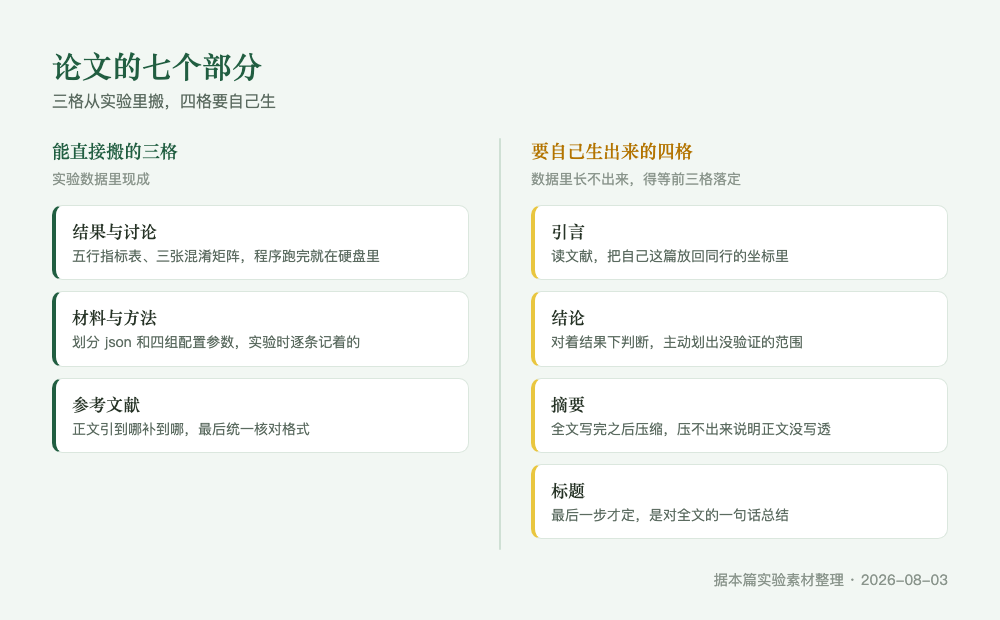
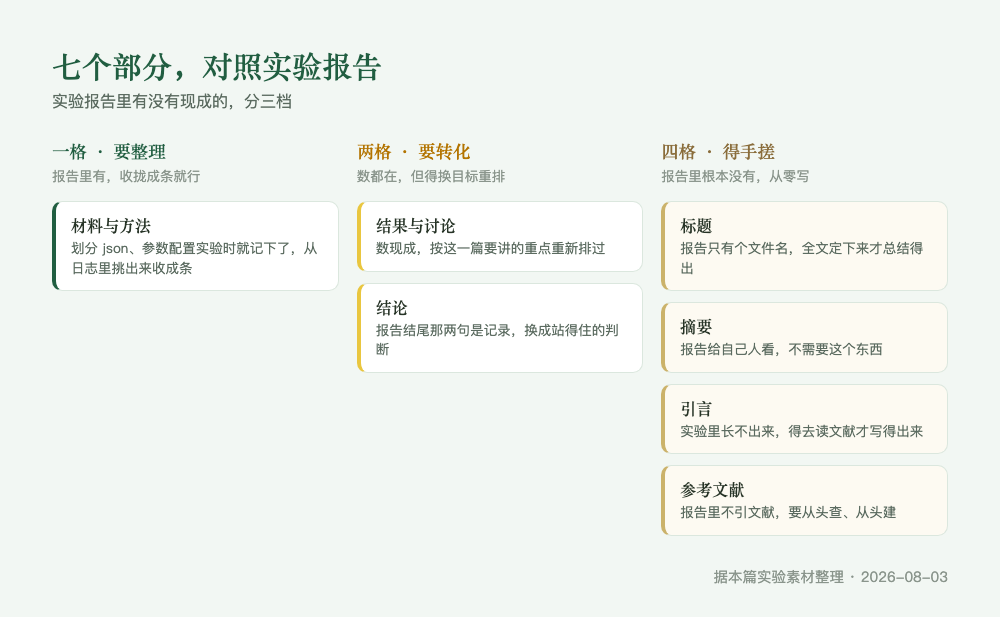
10 v1.3重推：第二节改七部分对照实验报告版(全文去字节数)，fig01重画三档 + MANIFEST同commit

diff --git a/articles/assets/day10/fig01-seven-parts.html b/articles/assets/day10/fig01-seven-parts.html
@@ -3,42 +3,42 @@ html,body{margin:0;width:1000px;background:#F2F7F3;font-family:"PingFang SC",san
 .card{width:1000px;box-sizing:border-box;padding:44px 52px 26px;background:#F2F7F3}
 h1{font-family:"Songti SC",serif;font-size:30px;font-weight:700;color:#215E41;margin:0 0 4px}
 .sub{font-size:16px;color:#5b6b60;margin:0 0 26px}
-.cols{display:flex;gap:0;position:relative}
-.divider{width:2px;background:#cfe0d4;margin:0 30px;border-radius:2px}
+.cols{display:flex;gap:18px}
 .col{flex:1;min-width:0}
-.ct{font-size:18px;font-weight:700;margin:0 0 6px;font-family:"Songti SC",serif}
-.ct.ban{color:#215E41}
-.ct.sheng{color:#B37400}
-.csub{font-size:14px;color:#8a958c;margin:0 0 16px}
-.cell{background:#fff;border:1.5px solid #dbe7de;border-radius:10px;padding:13px 16px;margin-bottom:11px}
-.cell .nm{font-size:17px;font-weight:700;color:#263326;font-family:"Songti SC",serif;margin-bottom:3px}
-.cell .ds{font-size:14px;color:#5b6b60;line-height:1.45}
-.ban .cell{border-left:4px solid #215E41}
-.sheng .cell{border-left:4px solid #E9C63F}
+.ct{font-size:17.5px;font-weight:700;margin:0 0 4px;font-family:"Songti SC",serif}
+.ct.a{color:#215E41}.ct.b{color:#B37400}.ct.c{color:#8a6d3b}
+.csub{font-size:13.5px;color:#8a958c;margin:0 0 15px}
+.cell{background:#fff;border:1.5px solid #dbe7de;border-radius:10px;padding:12px 15px;margin-bottom:11px}
+.cell .nm{font-size:16px;font-weight:700;color:#263326;font-family:"Songti SC",serif;margin-bottom:3px}
+.cell .ds{font-size:13.5px;color:#5b6b60;line-height:1.45}
+.a .cell{border-left:4px solid #215E41}
+.b .cell{border-left:4px solid #E9C63F}
+.c .cell{border-left:4px solid #cbb26a;background:#FDFAF2}
 .foot{margin-top:20px;text-align:right;font-size:14.5px;color:#8a958c}
 </style></head><body>
 <div class="card">
-  <h1>论文的七个部分</h1>
-  <p class="sub">三格从实验里搬，四格要自己生</p>
+  <h1>七个部分，对照实验报告</h1>
+  <p class="sub">实验报告里有没有现成的，分三档</p>
 
   <div class="cols">
-    <div class="col ban">
-      <p class="ct ban">能直接搬的三格</p>
-      <p class="csub">实验数据里现成</p>
-      <div class="cell"><div class="nm">结果与讨论</div><div class="ds">五行指标表、三张混淆矩阵，程序跑完就在硬盘里</div></div>
-      <div class="cell"><div class="nm">材料与方法</div><div class="ds">划分 json 和四组配置参数，实验时逐条记着的</div></div>
-      <div class="cell"><div class="nm">参考文献</div><div class="ds">正文引到哪补到哪，最后统一核对格式</div></div>
+    <div class="col a">
+      <p class="ct a">一格 · 要整理</p>
+      <p class="csub">报告里有，收拢成条就行</p>
+      <div class="cell"><div class="nm">材料与方法</div><div class="ds">划分 json、参数配置实验时就记下了，从日志里挑出来收成条</div></div>
     </div>
-
-    <div class="divider"></div>
-
-    <div class="col sheng">
-      <p class="ct sheng">要自己生出来的四格</p>
-      <p class="csub">数据里长不出来，得等前三格落定</p>
-      <div class="cell"><div class="nm">引言</div><div class="ds">读文献，把自己这篇放回同行的坐标里</div></div>
-      <div class="cell"><div class="nm">结论</div><div class="ds">对着结果下判断，主动划出没验证的范围</div></div>
-      <div class="cell"><div class="nm">摘要</div><div class="ds">全文写完之后压缩，压不出来说明正文没写透</div></div>
-      <div class="cell"><div class="nm">标题</div><div class="ds">最后一步才定，是对全文的一句话总结</div></div>
+    <div class="col b">
+      <p class="ct b">两格 · 要转化</p>
+      <p class="csub">数都在，但得换目标重排</p>
+      <div class="cell"><div class="nm">结果与讨论</div><div class="ds">数现成，按这一篇要讲的重点重新排过</div></div>
+      <div class="cell"><div class="nm">结论</div><div class="ds">报告结尾那两句是记录，换成站得住的判断</div></div>
+    </div>
+    <div class="col c">
+      <p class="ct c">四格 · 得手搓</p>
+      <p class="csub">报告里根本没有，从零写</p>
+      <div class="cell"><div class="nm">标题</div><div class="ds">报告只有个文件名，全文定下来才总结得出</div></div>
+      <div class="cell"><div class="nm">摘要</div><div class="ds">报告给自己人看，不需要这个东西</div></div>
+      <div class="cell"><div class="nm">引言</div><div class="ds">实验里长不出来，得去读文献才写得出来</div></div>
+      <div class="cell"><div class="nm">参考文献</div><div class="ds">报告里不引文献，要从头查、从头建</div></div>
     </div>
   </div>
 

diff --git a/articles/day10-preview.md b/articles/day10-preview.md
@@ -8,7 +8,7 @@
 > 上一篇把四步走完了：手工特征加 SVM，准确率 88.27%；从零搭的小 CNN，95.08%；预训练模型冻结着用，94.83%；解冻微调，96.50%。再把判定阈值挪一挪，召回率做到 96.00%。数都在那儿了。
 > 这一篇讲下一步：这批代码、图和指标，怎么组织成一篇论文。
 
-动手之前我以为写论文是一次性的事——实验做完，坐下来一口气写完就交。真做下来是六个版本，草稿从 13,674 字节改到 17,987 字节，中间还回落过两次。而逼我大动的，多数时候不是文笔，是隔了几节就对不上的数。
+动手之前我以为写论文是一次性的事——实验做完，坐下来一口气写完就交。真做下来是六个版本，中间还回退过两次。而逼我大动的，多数时候不是文笔，是隔了几节就对不上的数。
 
 ## 先说结论
 
@@ -37,43 +37,42 @@
 
 前三样是程序自动留下的，第四样是我开始写论文时才逼着自己记的。回头看，没有第四样，前面三样再齐整，写到后半段也会乱。
 
-### 二、论文的七个部分，各自交什么
+### 二、和实验报告差在哪：七个部分，各交什么
 
-实验收工那天，手上其实只有两样东西：一批结果，和一份怎么做出来的记录。论文的七个部分里，只有三格能从这两样里直接搬，剩下四格都要自己生。分清哪些是搬、哪些是生，动笔时才不会卡在错的地方。
+上一节那份操作日志，其实已经是一篇完整的实验报告了：按时间顺序记着我先做了什么、后做了什么、数是多少。但它不是论文。
 
-**能直接搬的三格**
+差别不在长短，在写给谁看。实验报告的读者是知道来龙去脉的自己人，关心的是「做了没有」；论文的读者是不认识你的同行，他要自己判断三件事：这件事值不值得做、你做得对不对、换他能不能重做一遍。所以论文不按时间排，按问题排——把同一批材料拆散，重新装进七个固定的部分里。
 
-| 部分 | 交什么 | 上一篇是从哪搬的 |
-| --- | --- | --- |
-| 结果与讨论 | 用图表给出数，并解释反常的地方 | 五行指标表、三张混淆矩阵，程序跑完就在硬盘里 |
-| 材料与方法 | 数据从哪来、怎么划分、每一步怎么配 | 划分 json 和四组配置参数，实验时逐条记着的 |
-| 参考文献 | 逐条可查，与正文引用一一对应 | 正文引到哪补到哪，最后统一核对格式 |
+七个部分各写什么，实验报告里有没有现成的，一张表对照完：
 
-这三格好不好填，在做实验的时候就定了。上一篇那份锁死划分的指纹码，就是在这里兑现的——有它，材料与方法才写得到别人能照着复现的程度。
+| 部分 | 英文 | 这一部分写什么 | 实验报告里有没有 |
+| --- | --- | --- | --- |
+| 标题 | Title | 一句话说清在什么数据上、用什么方法、做到什么水平 | 缺。报告只有个文件名，论文标题要等全文定下来自己总结 |
+| 摘要 | Abstract | 问题、方法、结果、结论各一两句，是全文的压缩版，要能单独读懂 | 缺。报告给自己人看，不需要摘要这个东西 |
+| 引言 | Introduction | 这件事为什么值得做，前人做到哪一步，还缺什么，所以我做了什么 | 缺。实验里不会长出引言，得去读文献才写得出来 |
+| 材料与方法 | Materials and Methods | 数据从哪来、多大规模、怎么划分、每一步的参数怎么配，标准是别人照着能重跑 | 有，但要整理。实验做完就都知道，只是散在日志里，要收拢成条 |
+| 结果与讨论 | Results and Discussion | 用图表给出数，并解释反常的地方——不只报数，要说为什么是这个数 | 有，但没转化。数是现成的，但得按这一篇要讲的重点重新排过 |
+| 结论 | Conclusion | 回答引言提出的那个问题，并说清什么条件下不适用 | 有，但没转化。报告结尾那两句还是记录，要换成站得住的判断 |
+| 参考文献 | References | 正文引到的每一条都列出来，逐条可查，格式统一 | 缺。报告里根本不引文献，要从头查、从头建 |
 
-**要自己生出来的四格**
+三档分得很清楚。**材料与方法**是唯一一个「有，但要整理」的：划分 json、参数配置实验时就记下了，把它们从日志里挑出来收成条就成。上一篇那份锁死划分的指纹码，用处就在这里——有它，材料与方法才写得到别人照着能重跑的程度。
 
-| 部分 | 交什么 | 靠什么生出来 |
-| --- | --- | --- |
-| 引言 | 这件事为什么值得做，前人做到哪一步，还缺什么 | 读文献，把自己这一篇放回同行的坐标里 |
-| 结论 | 回答引言提出的问题，说清适用边界 | 对着结果下判断，并主动划出没验证的范围 |
-| 摘要 | 问题、方法、结果、结论各一两句 | 全文写完之后压缩，压不出来说明正文没写透 |
-| 标题 | 一句话说清在什么数据上、用什么方法、做到什么水平 | 最后一步才定，是对全文的一句话总结 |
+**结果与讨论、结论**这两格是「有，但没转化」。数都在，报告里也写了几句小结，但那是按时间顺序记的。搬进论文得换一个目标重排：哪几个数支撑你这一篇的重点，就把哪几个抬到前面，其余的往后放。同一批数据，换个目标就是另一张表。
 
-这四格是实验数据里长不出来的。引言要判断这个问题值不值得做，结论要划边界，摘要和标题要把整篇压成几句话——它们都得等前三格落定，才有东西可依。
+**标题、摘要、引言、参考文献**这四格是真的缺，实验里根本不会产生，得一个字一个字手搓。引言要读完文献才写得出，参考文献要逐条去查，摘要和标题要把整篇压成几句话。写论文比写报告多出来的工作量，大半就在这四格上。
 
-![论文的七个部分：三格从实验里搬，四格要自己生](assets/day10/fig01-seven-parts.png)
-*论文的七个部分：三格从实验里搬，四格要自己生*
+![七个部分对照实验报告：一格要整理、两格要转化、四格得手搓](assets/day10/fig01-seven-parts.png)
+*七个部分对照实验报告：一格要整理、两格要转化、四格得手搓*
 
 ### 三、真实的写作顺序：从结果倒着往前写
 
-上一节把七个部分分成了两类：三格能搬，四格要生。写作顺序就是这个分法的直接结果——先写搬得动的，再写要想的。读论文是从摘要往下读，写的时候几乎相反。照着成品顺序从标题写起，第一步就会卡住：还没定下自己做出了什么，标题就无从下笔。我这一篇的实际动笔顺序是这样：
+上一节把七个部分分成了三档：要整理的、要转化的、得从头手搓的。写作顺序就是这个分法的直接结果——先写手里有底子的，再写要从头想的。读论文是从摘要往下读，写的时候几乎相反。照着成品顺序从标题写起，第一步就会卡住：还没定下自己做出了什么，标题就无从下笔。我这一篇的实际动笔顺序是这样：
 
 | 顺序 | 写哪一部分 | 为什么放在这个位置 |
 | --- | --- | --- |
-| 第 1 步 | 结果与讨论 | 图和数是现成的，不用编。先把它定下来，全文才有锚点 |
+| 第 1 步 | 结果与讨论 | 图和数是现成的，不用编。先把它定下来，全文才有个准头 |
 | 第 2 步 | 材料与方法 | 照着结果反推：结果里出现的每一个数，方法里都要有对应的配置交代 |
-| 第 3 步 | 结论 | 与材料方法咬合，把量出来的数收成一句能站住的判断 |
+| 第 3 步 | 结论 | 接着材料与方法往下收，把量出来的数变成一句能站住的判断 |
 | 第 4 步 | 引言 | 本质是相关工作。知道自己做出了什么，才知道该跟谁比 |
 | 第 5 步 | 摘要与标题 | 全文定了，摘要才是压缩，不是预告 |
 | 最后 | 参考文献 | 正文引到哪补到哪，逐条核实后统一整理格式 |
@@ -89,11 +88,17 @@
 
 ### 四、六轮改下来，每一轮改了什么
 
-六个版本都留在私库里。每一轮针对什么问题、动了哪一类内容、字数怎么变，都能对上。
+六个版本都留在私库里。往下看之前，先把衡量的三把尺子交代清楚，后面每一轮都用它们说话：
+
+- **完成度**：该有的有没有。七个部分齐不齐、每格该交的交了没、格式合不合学术规范。
+- **深度**：想透了没。反常的地方有没有解释，适用边界有没有划出来，讨论是停在报数还是往下走了一层。
+- **可复现**：别人能不能照着重做。划分怎么定的、参数怎么配的、公式列没列、文献查不查得到。
+
+篇幅不在这三把尺子里。后面会看到，改得最值的两轮，稿子反而是变短的。
 
 #### 第一步：把流水账装进骨架
 
-第一版 13,674 字节，一张图都没有。
+第一版只能算个雏形：七个部分的壳搭起来了，里面大半是空的，一张图都没有。
 
 实验刚做完时，我手上只有一份按时间顺序记的操作日志。这一轮我没有新写内容，只做了一件事：把流水账打散，按七个部分重新装。属于方法的归方法，散在叙述里的数值全部提到结果那一部分。
 
@@ -101,17 +106,17 @@
 
 #### 第二步：图补上了，隐患也埋下了
 
-第二版 15,578 字节，加了八张图。
+第二版补上了八张图，完成度往上走了一格。
 
-有了混淆矩阵和训练曲线，结果部分才立得住。但也是这一轮出的错：正文里把漏报数写成了 16，混淆矩阵图上是 29。同时，正文引的八条文献，一条都没核对过，作者和年份都是凭印象写的。
+有了混淆矩阵和训练曲线，结果部分才立得住。但也是这一轮出的错：正文里把漏报数写成了 16，混淆矩阵图上是 29。同时，正文引的八条文献，一条都没核对，作者和年份都是凭印象写的。
 
 当时精力全在图和排版上，没有回头拿图去对正文。**这是论文最容易飘的阶段——看起来有图有据，底下的数其实还没对上。**
 
 #### 第三步：把对不上的数改回来
 
-第三版 16,902 字节，是六轮里改动最重的一轮。
+第三版是六轮里改动最重的一轮，也是可复现第一次真正立住的一轮。
 
-漏报数从 16 更正为 29，混淆矩阵同步改回真实数据。这个数一动，牵连的地方不止一处：摘要里的结论句、结果部分的描述、讨论里关于漏报代价的判断，全部跟着重写。
+漏报数从 16 更正为 29，混淆矩阵同步改回真实数据。这个数一动，影响的地方不止一处：摘要里的结论句、结果部分的描述、讨论里关于漏报代价的判断，全部跟着重写。
 
 同一轮，我把八条文献送进 Crossref（一个公开的文献登记库，凭编号可以查到文献是否真实存在）逐条核实。
 
@@ -119,15 +124,15 @@
 
 #### 第四步：把方法补到能照着复现
 
-第四版 16,857 字节，比上一版少了 45 个字节。
+第四版篇幅不增反减，可复现却在这一轮一次到顶。
 
 我补了四个公式（手工特征怎么算、损失怎么定义），并补上两条源头文献：支持向量机的原始提法（Cortes 与 Vapnik，1995）、ImageNet（Deng 等，2009）。
 
-加了内容字数反而下降，因为公式一列出来，原先那些「先对图像做了一些灰度处理，接着做了对比度拉伸」的含糊长句就显得多余，被我整段删掉。**能用公式和参数说清的，不必用句子绕。**
+补了内容篇幅反而缩了，因为公式一列出来，原先那些「先对图像做了一些灰度处理，接着做了对比度拉伸」的含糊长句就显得多余，被我整段删掉。**能用公式和参数说清的，不必用句子绕。**
 
 #### 第五步：排版排不进去的，往往是没想清的
 
-第五版 18,312 字节，是六轮里最长的一版。
+第五版动的是格式，却在格式上撞出了一个逻辑问题。
 
 这一轮本意只是收拾格式：表格换成学术期刊常用的三线表，图题置于图下、表题置于表上，图片按三档宽度统一。
 
@@ -137,22 +142,16 @@
 
 #### 第六步：往回删
 
-第六版 17,987 字节，比上一版又少了 325 字节。导出 PDF 1.2 MB，定稿。
+第六版只做减法，完成度在这一轮补满，导出 PDF 定稿。
 
 我删掉一条引用不够准确的文献，全文文献从八条收到七条。这一轮没有往里加任何新内容。**收尾那一轮如果还在加东西，说明前几轮没改到位。**
 
-![六个版本的三维评分：字数在掉的那两轮，分数都在涨](assets/day10/fig03-bytes-line.png)
-*六个版本的三维评分：字数在掉的那两轮，分数都在涨*
+![六个版本的三维评分：完成度一格格爬，可复现跳着涨](assets/day10/fig03-bytes-line.png)
+*六个版本的三维评分：完成度一格格爬，可复现跳着涨*
 
 #### 六个版本放在一起看
 
-字节数前面出现好几次，但它不是尺子。第四版和第六版的字数都在往下掉，那两轮恰恰改得最值。真正在变的是三样东西：
-
-- **完成度**：该有的有没有。七个部分齐不齐、每格该交的交了没、格式合不合学术规范。
-- **深度**：想透了没。有没有解释反常的地方，有没有划出适用边界，讨论是停在报数还是往下走了一层。
-- **可复现**：别人能不能照着重做。划分怎么定的、参数怎么配的、公式写没写、文献查不查得到。
-
-六个版本各打一次分，满分 5 分：
+把前面那三把尺子逐版打一次分，满分 5 分：
 
 | 版本 | 这一轮只改 | 完成度 | 深度 | 可复现 |
 | --- | --- | --- | --- | --- |
@@ -163,9 +162,9 @@
 | v5 | 调学术格式 | 4 | 4 | 5 |
 | v6 | 精简删减 | 5 | 4 | 5 |
 
-三条线的涨法不一样。可复现是跳着涨的：第四版把公式和源头文献补上，这一维一次到顶，而那一轮字数是减的。完成度是慢慢爬的，最后一轮才补满。
+三条线的涨法不一样。可复现是跳着涨的：第四版把公式和源头文献补上，这一维一次到顶，而那一轮稿子是变短的。完成度是慢慢爬的，最后一轮才补满。
 
-深度停在 4 分没再动，这一点值得单说。这一篇做的是常规优化，没有提出新方法，深度到这里就是它的上限，硬往上写反而失真。把一件常规的事做完整、做到别人能复现，本身就是可交付的工作。
+深度停在 4 分没再动，这一点值得单说。这一篇做的是常规优化，没有提出新方法，深度到这里就是它的上限，硬往上写反而不实。把一件常规的事做完整、做到别人能复现，本身就是可交付的工作。
 
 ### 五、这六轮守的三条规矩
 
@@ -173,7 +172,7 @@
 
 **一轮只修一类问题。** 第三版只动数据，第四版只动方法，第五版只动格式。混着改的后果是：改完发现变好了，却说不清是哪一处起了作用，下一篇没法复用。
 
-**每一版都另存留痕。** 不在原文件上覆盖。六份稿子都在，我才能在第五版发现问题时，反查出那个 16 是第二版混进来的，也随时能退回去重来。
+**每一版都另存一份。** 不在原文件上覆盖。六份稿子都在，我才能在第五版发现问题时，反查出那个 16 是第二版混进来的，也随时能退回去重来。
 
 **每一轮都要有人核。** 改完对着上一轮列出的问题逐条验收，改了的说明改法，没改的说明理由。没有人盯，改着改着就会偏成另一份稿子，而不是改好的这一份。
 
@@ -203,7 +202,7 @@
 【完成度】
 - 七个部分是否齐全：标题、摘要、引言、材料与方法、结果与讨论、结论、参考文献
 - 每部分是否交了它该交的：摘要是否含问题/方法/结果/结论四要素；结论是否回答了引言提出的问题
-- 全文数据是否自洽：同一个数字在摘要、正文、图表中是否一致，逐个核对并列出不一致的地方
+- 全文数据是否一致：同一个数字在摘要、正文、图表中是否对得上，逐个核对并列出不一致的地方
 - 格式是否规范：表格形式、图题表题位置、单位与小数位是否统一
 
 【深度】
@@ -226,7 +225,7 @@
 注意：一轮只修一类。不要一次性把所有改法都给我。
 ```
 
-每改完一轮重新跑一次，三维分数的变化比字数诚实得多。
+每改完一轮重新跑一次，三维分数的变化比篇幅诚实得多。
 
 ### 复盘
 

diff --git a/articles/assets/MANIFEST.md b/articles/assets/MANIFEST.md
@@ -26,7 +26,7 @@
 | d09-07 | articles/assets/day09/fig10_efficientnet_finetuned_confusion.png | 09 | figure | 微调混淆矩阵：1,200 张里面对 1,158 | 第四节 | ready |
 | d09-08 | articles/assets/day09/fig08_model_comparison.png | 09 | figure | 两步跳跃：SVM 到 CNN 跨度最大 | 第三节末（图内只有 SVM/CNN 两方，归位第三节，编号图 6） | ready |
 | d10-00 | articles/assets/day10/cs10-cover.png | 10 | cover | Claude Science 绿皮书 10 · 写成一篇论文 | 封面 | ready |
-| d10-01 | articles/assets/day10/fig01-seven-parts.png | 10 | figure | 论文的七个部分：三格从实验里搬，四格要自己生 | 第二节 | ready |
+| d10-01 | articles/assets/day10/fig01-seven-parts.png | 10 | figure | 七个部分对照实验报告：一格要整理、两格要转化、四格得手搓 | 第二节 | ready |
 | d10-02 | articles/assets/day10/fig02-writing-order.png | 10 | figure | 写作顺序：从结果与讨论起笔，摘要留到最后 | 第三节 | ready |
-| d10-03 | articles/assets/day10/fig03-bytes-line.png | 10 | figure | 六个版本的三维评分：字数在掉的那两轮，分数都在涨 | 第四节末 | ready |
+| d10-03 | articles/assets/day10/fig03-bytes-line.png | 10 | figure | 六个版本的三维评分：完成度一格格爬，可复现跳着涨 | 第四节末 | ready |
 | d10-04 | articles/assets/day10/fig04-one-look.png | 10 | figure | 一张图看完：实验报告和论文差在哪、按什么顺序写、到什么程度算写完 | 结尾一图流 | ready |
